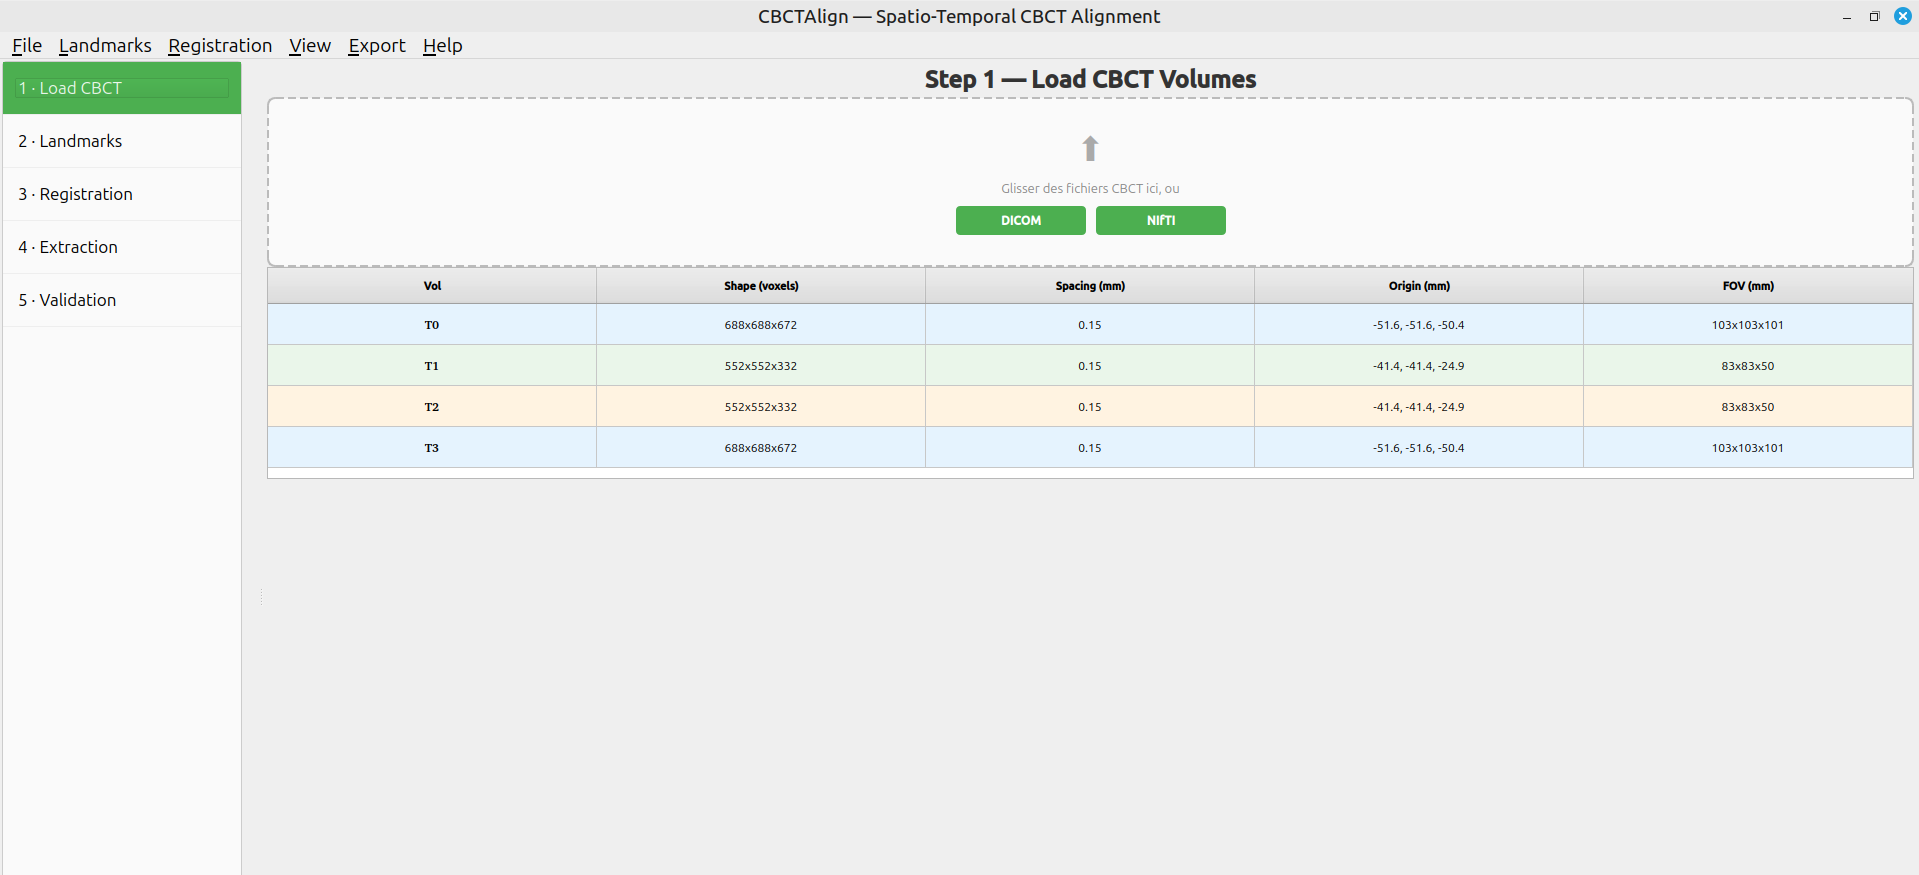
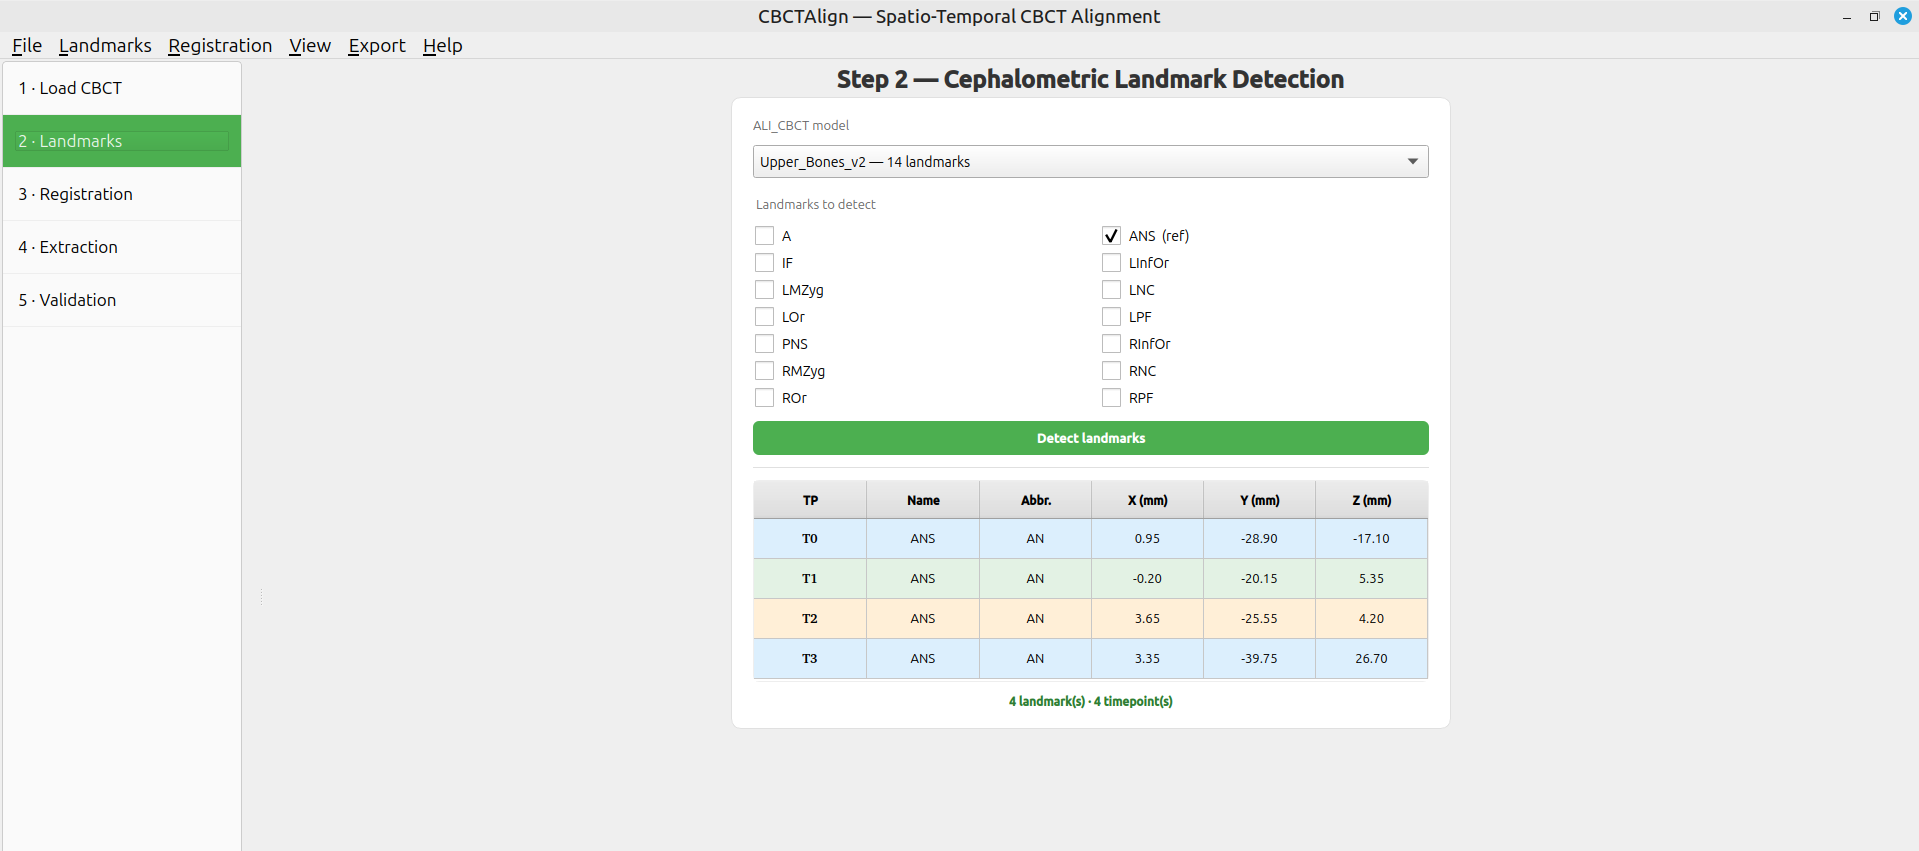
Step 1: display load screen + file dialog; fix image links

diff --git a/README.md b/README.md
@@ -124,27 +124,29 @@ CBCTAlign is organized as five sequential steps shown in the left-hand sidebar.
 ### Step 1 — Load CBCT Volumes
 Import the longitudinal acquisitions via **File → Open NIfTI** (or **Open DICOM**), one file per timepoint. Each loaded volume appears in a summary table showing its shape (voxels), spacing (mm), origin, and field of view. Volumes are labeled T0, T1, T2, … in acquisition order.
 
-![Step 1 — Load CBCT](docs/images/imga1.png)
+![Step 1 — Load CBCT](docs/images/image1_1.png)
+
+![Step 1 — File selection dialog](docs/images/image1_2.png)
 
 ### Step 2 — Cephalometric Landmarks
 Import the ALI_CBCT JSON markup files via **File → Load Landmarks JSON**, one per timepoint. CBCTAlign extracts the landmark coordinates and populates a color-coded table with the name, abbreviation, and (x, y, z) position in millimeters for each timepoint.
 
-![Step 2 — Landmarks](docs/images/imga3.png)
+![Step 2 — Landmarks](docs/images/image2.png)
 
 ### Step 3 — Rigid Registration
 Select the reference anchor (default: ANS at T0) and click **Run Registration**. Each moving volume is initialized from the landmark displacement, then refined by maximizing Mattes Mutual Information over a 3-level multi-resolution pyramid (shrink factors 4, 2, 1). The results table reports convergence status, final Mutual Information, and registration time per timepoint.
 
-![Step 3 — Registration](docs/images/imga5.png)
+![Step 3 — Registration](docs/images/image3.png)
 
 ### Step 4 — Slice Extraction
 Set the number of slices per orientation and the range (± mm) around the anchor, then click **Run Extraction**. CBCTAlign extracts axial, coronal, and sagittal slices centered on the reference landmark for every timepoint, then normalizes the field of view across timepoints. A summary reports the number of timepoints, slices per orientation, and total slices saved.
 
-![Step 4 — Extraction](docs/images/imga6.png)
+![Step 4 — Extraction](docs/images/image4.png)
 
 ### Step 5 — Validation & Visualization
 The synchronized grid viewer displays the aligned 2D slices (three orientations × N timepoints). Each orientation has an independent slice index, Window/Level controls adjust contrast, and any panel can be opened in a zoom dialog. The MCAGPC metric is computed per orientation to quantify alignment quality.
 
-![Step 5 — Validation](docs/images/imga7.png)
+![Step 5 — Validation](docs/images/image5.png)
 
 ---
 